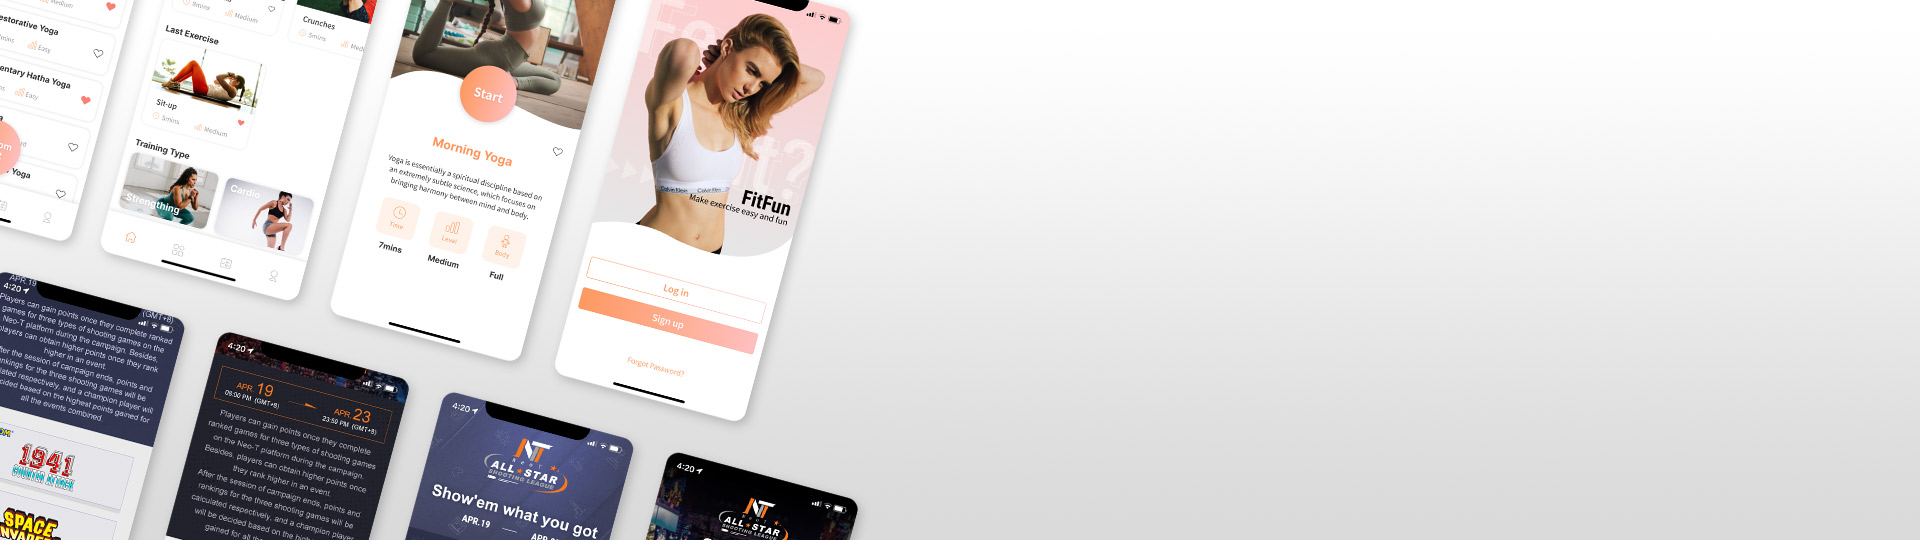
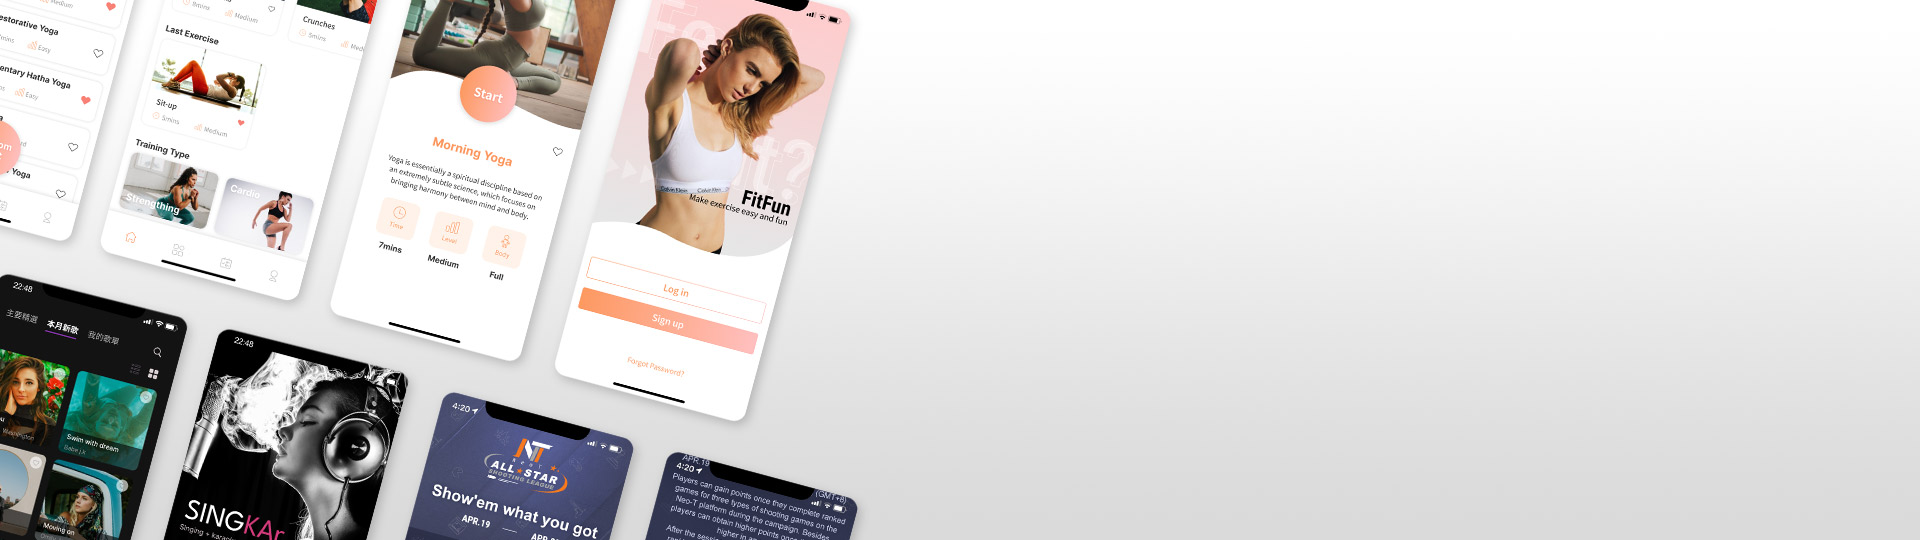
feat(Portfolio): add new ui screen

Changed region(s): [[0.0, 0.5037, 0.2188, 1.0], [0.3125, 0.8296, 0.4688, 1.0]]

diff --git a/js/index.js b/js/index.js
@@ -76,7 +76,7 @@ $(function(){
 		`);
 	}
 	//ui
-	for(i = 0 ; i < 1 ;i++) {
+	for(i = 0 ; i < 2 ;i++) {
 		var _count = i + 1;    
 	    $('#js-cate-ui').append(`
 		<div class="portfolio-ui"><img src="img/works/ui0`+ _count +`.jpg" alt=""></div>
